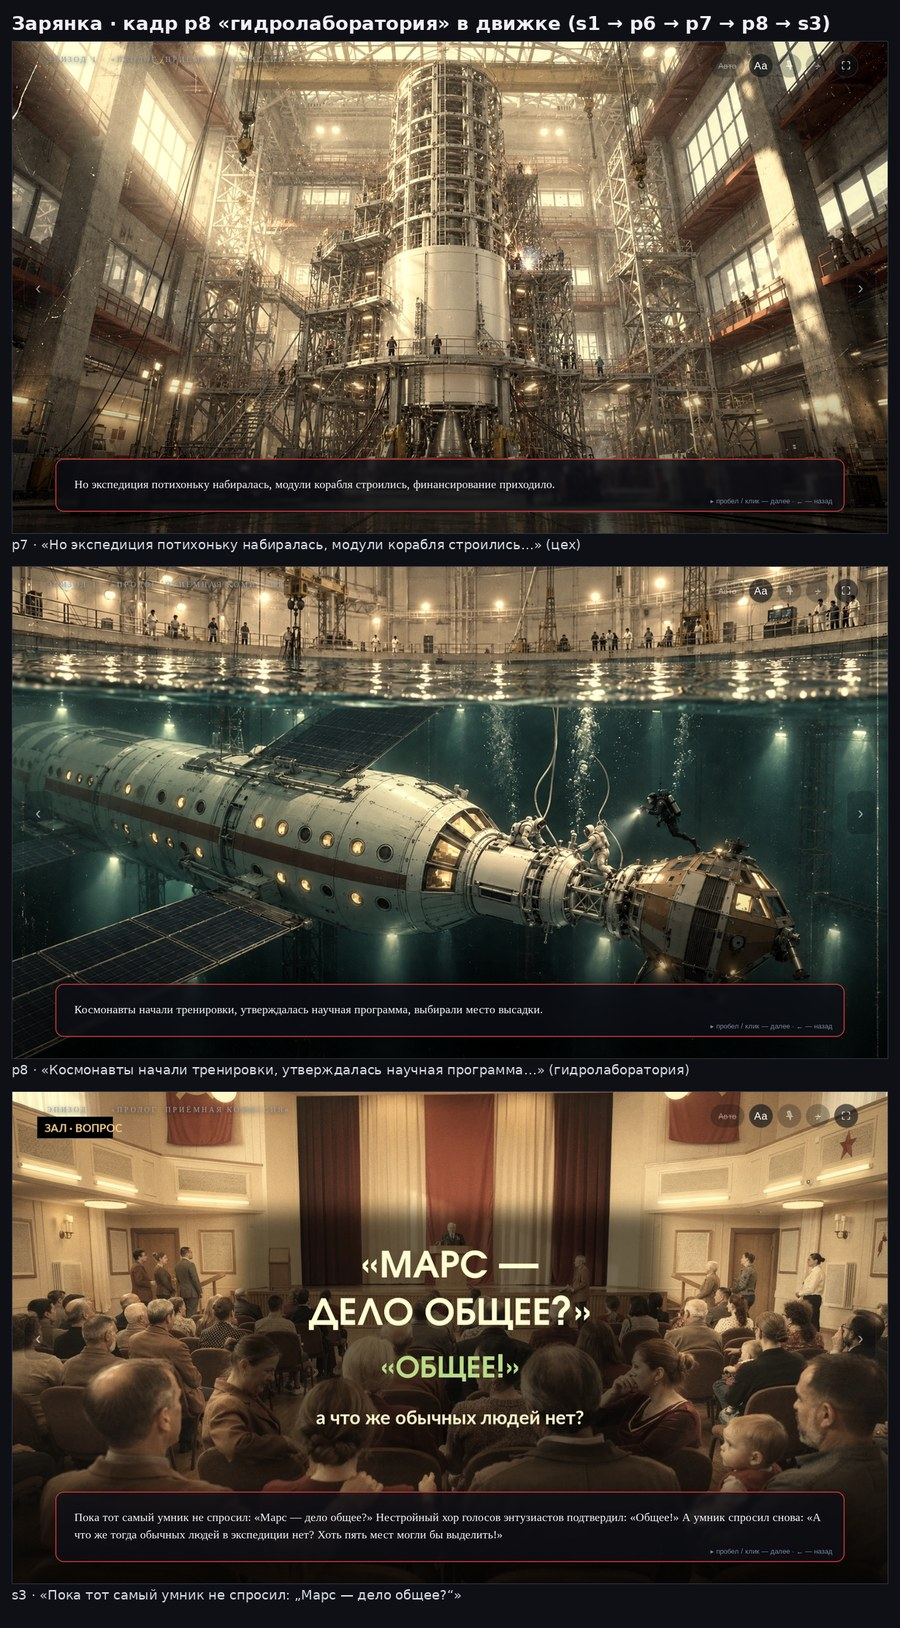
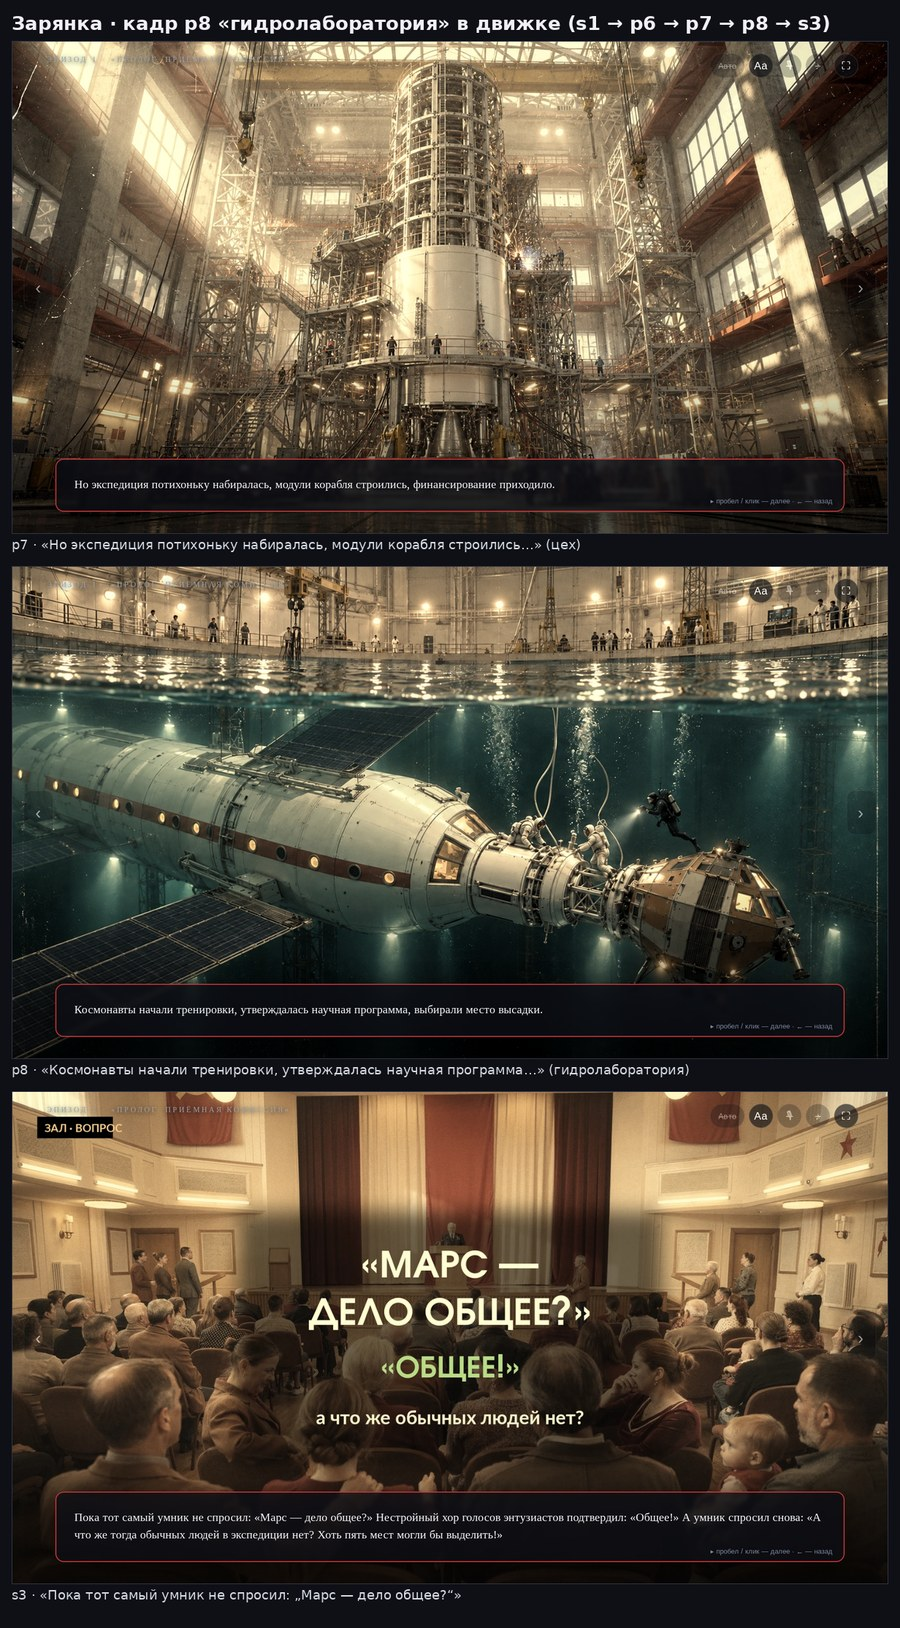
vn2: пролог — p8 пересменён на вариант A (один ряд иллюминаторов)
- Иван 2026-11-01: «Не, мне нравится вариант с одним рядом иллюминаторов.
  Как то ламповее и теплее выглядит»
- assets/final/prolog/p8.png = мастер prolog_p8v4_a__gpt-image-2_0.png (_p8_swap_a.py);
  вариант B остаётся мастером в assets/gen, не отклонён и не удалён
- сверка кадра (_p8_check_ab.py): финал совпадает с A по средним (74.2 vs 72.6 у B),
  vn2/img/prolog/p8.webp 492868 B = A после грейда
- без переозвучки и без поднятия VO_VER (текст не менялся)
- пролог: 13 страниц / 130.5 с, проблем 0; регрессы зелёные: cg_range 10/10,
  ded_credits, restart 3/3, auto_menu
- скриншоты и лист пересобраны (_shot_p8.py, _p8_vn_sheet.py)

Changed region(s): [[0.0622, 0.43, 0.6844, 0.5835], [0.5289, 0.43, 0.56, 0.4607], [0.0, 0.4607, 0.0311, 0.4914]]

diff --git a/_p8_swap_a.py b/_p8_swap_a.py
@@ -1,0 +1,29 @@
+# -*- coding: utf-8 -*-
+"""p8: замена принятого кадра B (два ряда иллюминаторов) на A (один ряд).
+
+Иван 2026-11-01: «Не, мне нравится вариант с одним рядом иллюминаторов.
+Как то ламповее и теплее выглядит».
+
+Мастер B остаётся в assets/gen (не удаляем), просто меняем финальный кадр.
+"""
+import os
+import shutil
+
+HERE = os.path.dirname(os.path.abspath(__file__))
+GEN = os.path.join(HERE, "assets", "gen")
+FIN = os.path.join(HERE, "assets", "final", "prolog")
+
+src = os.path.join(GEN, "prolog_p8v4_a__gpt-image-2_0.png")
+dst = os.path.join(FIN, "p8.png")
+
+bak = os.path.join(FIN, "p8_v4b_bak.png")
+if os.path.exists(dst) and not os.path.exists(bak):
+    shutil.copyfile(dst, bak)
+    print("бэкап прежнего B:", os.path.relpath(bak, HERE), os.path.getsize(bak), "B")
+
+shutil.copyfile(src, dst)
+print("p8.png <-", os.path.relpath(src, HERE), os.path.getsize(dst), "B")
+
+from PIL import Image
+im = Image.open(dst)
+print("размер:", im.size, im.mode)

diff --git a/_p8_check_ab.py b/_p8_check_ab.py
@@ -1,0 +1,19 @@
+# -*- coding: utf-8 -*-
+"""Проверка: в сборку попал именно A (один ряд иллюминаторов), а не B."""
+import os
+import numpy as np
+from PIL import Image
+
+HERE = os.path.dirname(os.path.abspath(__file__))
+G = lambda p: os.path.join(HERE, p)
+def stat(p):
+    im = Image.open(p).convert("RGB").resize((320, 180))
+    a = np.asarray(im, np.float32)
+    return a.mean(axis=(0, 1))
+
+for name, p in [("A gen", "assets/gen/prolog_p8v4_a__gpt-image-2_0.png"),
+                ("B gen", "assets/gen/prolog_p8v4_b__gpt-image-2_0.png"),
+                ("final p8", "assets/final/prolog/p8.png"),
+                ("built webp", "vn2/img/prolog/p8.webp")]:
+    m = stat(G(p))
+    print("%-12s %6.1f %6.1f %6.1f  mean=%5.1f" % (name, m[0], m[1], m[2], m.mean()))

diff --git a/_p8_bak_drop.py b/_p8_bak_drop.py
@@ -1,0 +1,8 @@
+import os
+HERE = os.path.dirname(os.path.abspath(__file__))
+p = os.path.join(HERE, "assets", "final", "prolog", "p8_v4b_bak.png")
+if os.path.exists(p):
+    os.remove(p)
+    print("убран дубль:", os.path.relpath(p, HERE))
+g = os.path.join(HERE, "assets", "gen", "prolog_p8v4_b__gpt-image-2_0.png")
+print("мастер B на месте:", os.path.exists(g), os.path.getsize(g) if os.path.exists(g) else 0)

diff --git a/STATUS.md b/STATUS.md
@@ -797,7 +797,16 @@ https://piroman99.github.io/zarynka/vn2/ (опубликованный `rebuild`
   Добавлено: ЛЕНТА ЛОБОВОГО ОСТЕКЛЕНИЯ командного отсека (широкие трапециевидные окна с
   перемычками, тёплый свет внутри) + РЯД КРУГЛЫХ ИЛЛЮМИНАТОРОВ вдоль корпуса по красной
   полосе; A — один ряд окон, B — два ряда и больше тёплого света («корабль обитаемый»).
-- **Принят B** (`prolog_p8v4_b__gpt-image-2_0.png`) → `assets/final/prolog/p8.png`.
+- Сначала принят B (`prolog_p8v4_b__gpt-image-2_0.png`) → `assets/final/prolog/p8.png`.
+- **2026-11-01 — передумал: кадр заменён на A** («Не, мне нравится вариант с одним рядом
+  иллюминаторов. Как то ламповее и теплее выглядит»). `_p8_swap_a.py`: `assets/final/prolog/p8.png`
+  = мастер `prolog_p8v4_a__gpt-image-2_0.png`; B остаётся в `assets/gen` (не отклонён, не удалён).
+  Пересборка `_vn2_build.py` → `vn2/img/prolog/p8.webp` 492868 B, сверка средних по кадру
+  (`_p8_check_ab.py`): финал совпадает с A (74.2 против 72.6 у B), webp = A после грейда
+  (R77.0/G80.4/B66.7). Без переозвучки и без поднятия `VO_VER`.
+  Регрессы зелёные: `_vn2_vo_prolog_check` 13 стр./130.5 с/проблем 0, `_vn2_cg_range` 10/10,
+  `_vn2_ded_credits`, `_vn2_restart` 3/3, `_vn2_auto_menu`; скриншоты и лист пересобраны
+  (`_shot_p8.py`, `_p8_vn_sheet.py`).
 - **Старый кадр S2 (цех `prologfin2_s2a`) ушёл в архив** `assets/rejected/s2/s2_ceh_prologfin2.png`
   (запись в REJECTED.md): цех стал дублем нового p7, поэтому текст «Космонавты начали
   тренировки, утверждалась научная программа, выбирали место высадки» переехал на кадр
